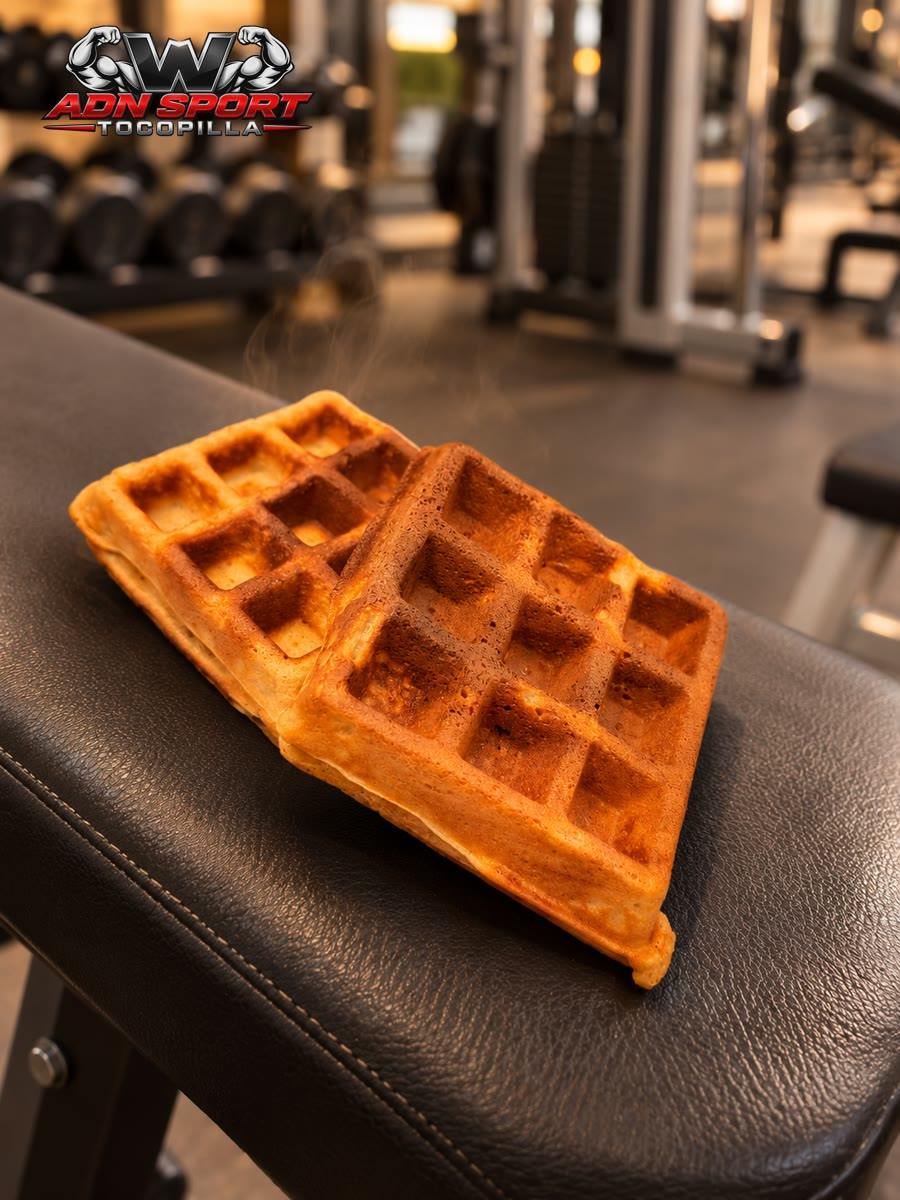
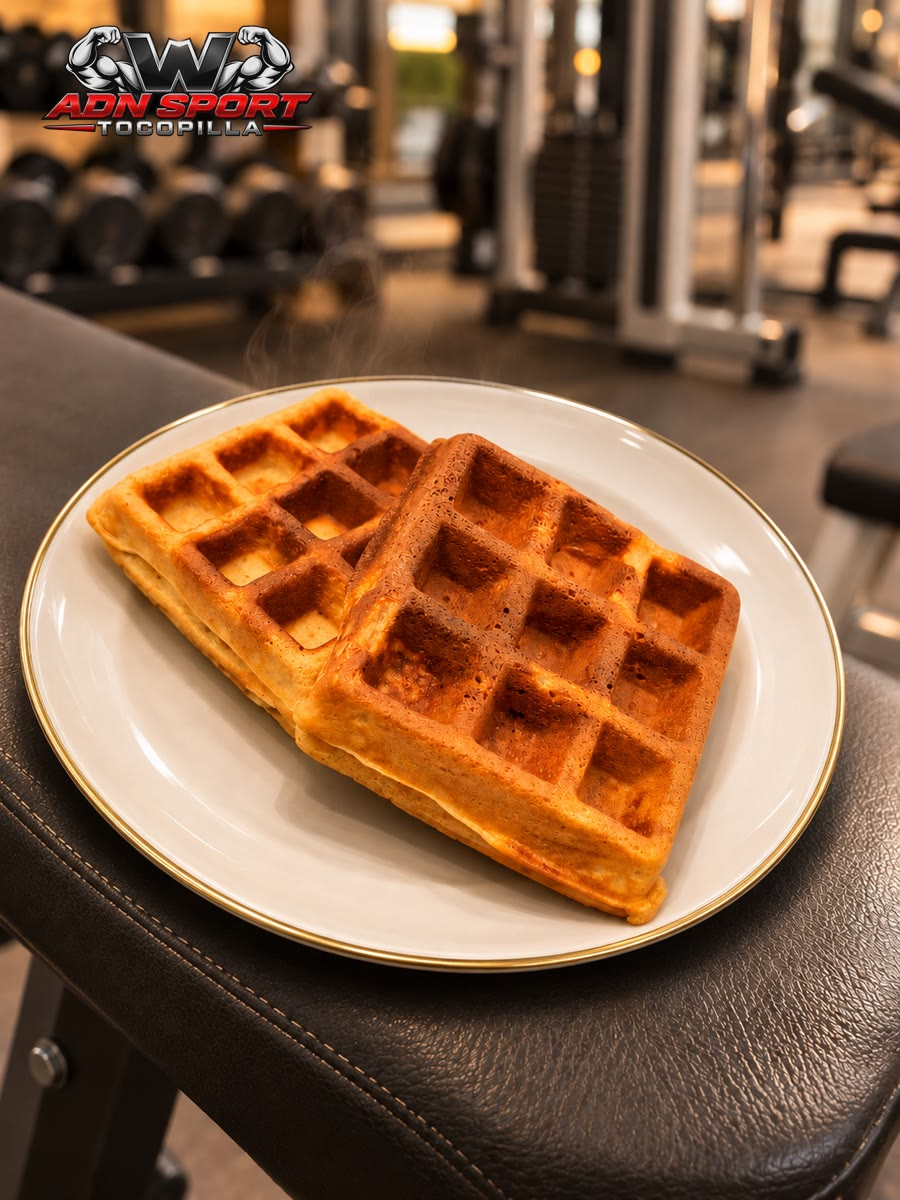
Tienda: foto nueva del waffle (en plato)
Claude-Session: https://claude.ai/code/session_013ZgZPSRHEDhMsqmx8Km842

diff --git a/tienda.html b/tienda.html
@@ -261,7 +261,7 @@ function hoyISO(){ return new Intl.DateTimeFormat("en-CA", { timeZone:"America/S
 function ahoraTxt(){ var f = new Intl.DateTimeFormat("sv-SE", { timeZone:"America/Santiago", year:"numeric", month:"2-digit", day:"2-digit", hour:"2-digit", minute:"2-digit" }).format(new Date()); return f.replace("T", " ").slice(0, 16); }
 function normTxt(s){ return String(s || "").toUpperCase().normalize("NFD").replace(/[̀-ͯ]/g, ""); }
 /* Al cambiar una foto en img/tienda/ (mismo nombre), subir FOTO_V para que los teléfonos no muestren la antigua. */
-var FOTO_V = "50";
+var FOTO_V = "51";
 function fotoUrl(f){ return f ? (/^data:/.test(f) ? f : f + (f.indexOf("?") < 0 ? "?v=" + FOTO_V : "")) : ""; }
 /* 📷 Foto subida desde el celular (27-10-2026, la dueña: "¿no lo puedo hacer todo sin depender de ti?"): se achica a
    máx. 480 × 640, se le pone el logo del gimnasio arriba a la izquierda (34 % del ancho, como las demás fotos) y se guarda
@@ -533,7 +533,7 @@ setInterval(function(){ if(pend.length) enviarPendientes(); }, 30000);
    el computador"): los datos se vuelven a pedir a la planilla cada 30 s mientras la página está a la vista (sin una ficha
    abierta), y cada minuto se revisa tienda-version.txt: si hay una versión nueva de la página, se recarga sola.
    Cada vez que se cambie tienda.html, subir TIENDA_VERSION y tienda-version.txt juntos (AAAAMMDDNN). */
-var TIENDA_VERSION = "2026110502";
+var TIENDA_VERSION = "2026110503";
 setInterval(function(){ if(clave && !document.hidden && $("velo").hidden && !$("app").hidden) enviarPendientes().then(function(){ cargar(true); }); }, 30000);
 function revisarVersion(){
  fetch("tienda-version.txt?t=" + Date.now(), { cache:"no-store" }).then(function(r){ return r.ok ? r.text() : ""; }).then(function(v){

diff --git a/tarjeta.html b/tarjeta.html
@@ -2474,7 +2474,7 @@ function renderEvolucion(s){
     oculta con «Ya no lo vendo» no llega. «Lo quiero» abre una ventanita (foto grande, cantidad, total)
     y después WhatsApp a Sara con el pedido. El stock solo baja cuando ella cobra en la tienda.
     Al cambiar una foto de img/tienda/ con el mismo nombre, subir TIENDA_FOTO_V junto con FOTO_V de tienda.html. */
- var TIENDA_FOTO_V = "50", TIENDA_WSP = "56975196394", TIENDA_SITIO = "https://encaladasara363-lang.github.io/wgymadnsport-archivos/";
+ var TIENDA_FOTO_V = "51", TIENDA_WSP = "56975196394", TIENDA_SITIO = "https://encaladasara363-lang.github.io/wgymadnsport-archivos/";
  /* Interruptor (25-10-2026, la dueña: "no quiero publicar la tienda el lunes porque compré ropa en Shein y no sé
     cuándo me llegaría"): en false la tarjeta no muestra la tienda aunque la Versión 25 esté instalada.
     Ponerlo en true (y subir TARJETA_VERSION) solo cuando ella lo pida. */
@@ -2682,7 +2682,7 @@ function renderEvolucion(s){
     compara TARJETA_VERSION con tarjeta-version.txt del sitio y, si hay
     una más nueva, la página se recarga sola (el nombre ya aparece
     puesto). Al cambiar tarjeta.html, subir los DOS números juntos. */
- var TARJETA_VERSION = "2026110507", ultimaRevisionVersion = 0;
+ var TARJETA_VERSION = "2026110508", ultimaRevisionVersion = 0;
 function recargarFresco_(v){
  /* Recarga pidiendo la página nueva (11-10-2026): location.reload() podía traer la copia
     guardada del teléfono (GitHub guarda la página ~10 min) y el socio seguía con la versión

diff --git a/CLAUDE.md b/CLAUDE.md
@@ -1632,7 +1632,7 @@ productos» y «Tienda movimientos», acciones `tienda*` de `docs/apps-script/In
 - **⛔ SIN STOCK (27-10-2026, la dueña: "cuando se acaba el producto tendría que salir sin stock para que mis socios sepan"):** en 📦 Inventario, todo producto (no ropa vendida, no batido que sale del tarro, no apartado) con stock 0 sale con la foto gris, sello rojo «SIN STOCK» y pastilla «⛔ SIN STOCK · repón con «Llegó mercadería»»; en la búsqueda de 🛒 Vender dice «⛔ SIN STOCK». En la vitrina de la tarjeta el sello dice «SIN STOCK» (antes «AGOTADO») con «Pronto vuelve». Vuelve solo al cargar mercadería.
 - **🍦 Categoría «Helados» (31-10-2026, la dueña mandó su catálogo de helados proteicos sin azúcar, endulzados con stevia y alulosa):** en `CATS` de `tienda.html`, `TIENDA_ICONOS` de `tarjeta.html` y `SIN_APARTAR` (no se apartan); la vitrina cerrada dice «🍦 Helados proteicos sin azúcar». 5 sabores con foto sacada de cada página del catálogo (ya traen el logo; no ponérselo encima): Manjarate (`img/tienda/helado-proteico-manjarate.jpg`, 125 g, 176 kcal · 11,9 P · 19,8 C · 5,8 G), Capuchino (110 g, 130 · 10 · 11 · 5), Tropical Coco (130 g, 143 · 9,8 · 14 · 5,3), Banana Choco Maní (130 g, 161 · 10,9 · 16,3 · 5,8; contiene maní) y Berry Cream (130 g, 126 · 9,9 · 12,3 · 3,9). Pistacho Dorado (01-11-2026, afiche aparte de la dueña; ya trae el logo: `img/tienda/helado-proteico-pistacho-dorado.jpg`; 125 g, 184 kcal · 12,5 P · 15,4 C · 8,0 G; costo $1.100, venta $2.000, 3 unidades; con proteína de vainilla; contiene leche y pistacho; el afiche no dice «sin azúcar», por eso no se puso). Pistacho Menta (02-11-2026, afiche de la dueña con el logo: `img/tienda/helado-proteico-pistacho-menta.jpg`; mismos macros que el Pistacho Dorado, 125 g, 184 kcal · 12,5 P · 15,4 C · 8,0 G; contiene leche y pistacho; 3 unidades; costo y precio como el Pistacho Dorado salvo que la dueña diga otro). Oreo proteico (02-11-2026, afiche de la dueña con el logo: `img/tienda/helado-proteico-oreo.jpg`; 130 g, 185 kcal · 12,6 P · 17,7 C · 7,1 G; con proteína de vainilla y 3 galletas tipo Oreo; contiene leche y trigo; 3 unidades; venta $1.500 como los otros). Coco Bombón proteico (02-11-2026, afiche de la dueña con el logo: `img/tienda/helado-proteico-coco-bombon.jpg`; 182 kcal · 10,0 P · 12,7 C · 10,4 G; coco, almendras y chocolate blanco; contiene leche y almendras; 3 unidades a $1.500). Moka White proteico (03-11-2026, afiche de la dueña con el logo: `img/tienda/helado-proteico-moka-white.jpg`; 154 kcal · 9,7 P · 14,3 C · 7,0 G; café y chocolate blanco; contiene leche; 3 unidades a $1.500). Avellana Manjar proteico (03-11-2026, afiche de la dueña con el logo: `img/tienda/helado-proteico-avellana-manjar.jpg`; 163 kcal · 10,0 P · 13,5 C · 7,8 G; avellanas y manjar; contiene leche y avellanas; 3 unidades a $1.500). Banana Split Nuez proteico (03-11-2026, afiche de la dueña con el logo: `img/tienda/helado-proteico-banana-split-nuez.jpg`; 137 kcal · 8,2 P · 12,3 C · 5,8 G; plátano, nueces y chocolate; contiene leche y nueces; 4 unidades a $1.500; en `TIENDA_MACROS` va antes de la regla de «banana» para no confundirse con Banana Choco Maní). Coco Vainilla proteico (04-11-2026, afiche de la dueña con el logo: `img/tienda/helado-proteico-coco-vainilla.jpg`; 140 kcal · 9,8 P · 9,4 C · 6,7 G; coco y vainilla; contiene leche; 3 unidades a $1.500; en `TIENDA_MACROS` va antes de la regla de «coco» para no confundirse con Coco Bombón). Alfajor Crunch proteico (04-11-2026, afiche de la dueña con el logo: `img/tienda/helado-proteico-alfajor-crunch.jpg`; 164 kcal · 9,4 P · 18,3 C · 6,4 G; galleta, manjar y chocolate; contiene leche, trigo y soya; 3 unidades a $1.500). Mango Chía proteico (05-11-2026, afiche de la dueña con el logo: `img/tienda/helado-proteico-mango-chia.jpg`; 111 kcal · 7,8 P · 10,7 C · 3,9 G; mango y chía; contiene leche; 5 unidades a $1.500). Selva Negra proteico (05-11-2026, afiche de la dueña con el logo: `img/tienda/helado-proteico-selva-negra.jpg`; 112 kcal · 8,6 P · 10,5 C · 3,9 G; cereza y cacao; contiene leche; 3 unidades a $1.500). Menta Chips proteico (05-11-2026, afiche de la dueña con el logo: `img/tienda/helado-proteico-menta-chips.jpg`; 140 kcal · 9,7 P · 10,6 C · 6,2 G; menta y chips de chocolate; contiene leche; 4 unidades a $1.500). Brownie Choco proteico (05-11-2026, afiche de la dueña con el logo: `img/tienda/helado-proteico-brownie-choco.jpg`; 165 kcal · 9,5 P · 14,8 C · 7,9 G; brownie y chocolate; contiene leche, trigo y huevo; 3 unidades a $1.500). **Todos los vasos son de 100 ml (02-11-2026, la dueña): en `TIENDA_MACROS` el campo `por` dice «100 ml» en todos los sabores (los gramos de los afiches eran el peso de la porción).** Los nombres de producto empiezan con «Helado proteico …» porque `TIENDA_MACROS` de la tarjeta los reconoce así (campo `por` = porción del vaso). Precio de venta $1.500 cada uno (la dueña, 31-10-2026); costo y stock por confirmar. **Un solo código para todos los sabores (31-10-2026, pedido de la dueña):** `CODIGOS_GRUPO` en `tienda.html` (`"2001500000000": "Helados"`); al escanearlo en 🛒 Vender (normal o «Escanear varias») se abre «🍦 ¿Qué sabor?» (`elegirDelGrupo`) con la foto y el stock de cada helado, y se suma el elegido (con «varias», la cámara vuelve a abrirse). No se guarda como código de ningún producto. Etiqueta impresa para el refrigerador: 2 por hoja chica de 5 × 7 cm (logo, «HELADOS · PROTEICOS SIN AZÚCAR», código, «TODOS LOS SABORES $1.500»), probada con ZXing.
 - **🍫 Barrita Choco Maní — YA NO SE VENDE desde el 05-11-2026 (la dueña: "las barritas no las haré más"; se oculta en el inventario con «🗑 Ya no lo vendo»; no volver a ofrecerla). Era (03-11-2026, afiche de la dueña + logo arriba a la izquierda al 22 %, como la creatina: `img/tienda/barrita-choco-mani.jpg`):** Snacks, 28 g, chocolate sin azúcar con almendras y maní; costo $1.000, venta $2.000; código propio 200….
-- **🧇 Waffle de arroz, avena y dátil (05-11-2026, receta casera de la dueña, sin topping):** Snacks, 1 waffle belga de su waflera giratoria (≈130 g de masa: harina de arroz, avena, dátil, leche sin lactosa, 12 g de leche en polvo y 30 g de yogur griego por media receta, huevo, aceite de coco); costo ≈$580, venta $1.000 (ella eligió ese precio para vender más), 10 unidades, código propio 200…; foto `img/tienda/waffle-arroz-avena-datil.jpg` (ChatGPT sobre el banco negro + logo). Macros en `TIENDA_MACROS` (`/^waffle/`): ≈355 kcal · 12 P · 48 C · 13,5 G; contiene huevo y leche.
+- **🧇 Waffle de arroz, avena y dátil (05-11-2026, receta casera de la dueña, sin topping):** Snacks, 1 waffle belga de su waflera giratoria (≈130 g de masa: harina de arroz, avena, dátil, leche sin lactosa, 12 g de leche en polvo y 30 g de yogur griego por media receta, huevo, aceite de coco); costo ≈$580, venta $1.000 (ella eligió ese precio para vender más), 10 unidades, código propio 200…; foto `img/tienda/waffle-arroz-avena-datil.jpg` (ChatGPT: plato blanco con borde dorado sobre el banco negro, + logo; cambiada el mismo día, FOTO_V 51). Macros en `TIENDA_MACROS` (`/^waffle/`): ≈355 kcal · 12 P · 48 C · 13,5 G; contiene huevo y leche.
 - **💪 Creatina por porción en bolsita de 5 g (03-11-2026, afiche de la dueña + logo arriba a la izquierda, más chico (22 %) para no tapar «CREATINA»: `img/tienda/creatina-por-porcion-bolsita.jpg`):** Suplementos, venta $1.000; costo $104 (bolsa OstroVit 100 % Creatine Monohydrate natural de 1 kg a $20.840 ÷ 200 bolsitas de 5 g, sin contar la bolsita); 1 bolsita = 1 unidad del stock.
 - **🧊 Pre entreno granizado Fruit Punch (03-11-2026, afiche de la dueña con el logo: `img/tienda/pre-entreno-granizado-fruit-punch.jpg`):** Bebestibles, costo $1.000 (porción + hielo + vaso), vaso a $3.000, «+ Creatina $1.000» (en 🛒 Vender y en la ventanita de la tarjeta). No lleva stock propio: cada vaso descuenta 1 porción del tarro «Pre entreno Mr Hyde Signature Fruit Punch» (`USA_PORCION` en `tienda.html`; la vitrina de la tarjeta toma el stock de ese tarro). Solo adultos, no apto en embarazo ni lactancia.
 - **👖 Pantalón deportivo gris jaspeado con franjas negras (03-11-2026):** Ropa mujer, talla S, pierna ancha, «DIRECTION» en el muslo; costo $10.000, venta $15.000, 1 unidad; foto `img/tienda/pantalon-deportivo-gris-franjas-negras.jpg` (afiche rosado de la dueña, ya trae el logo).
